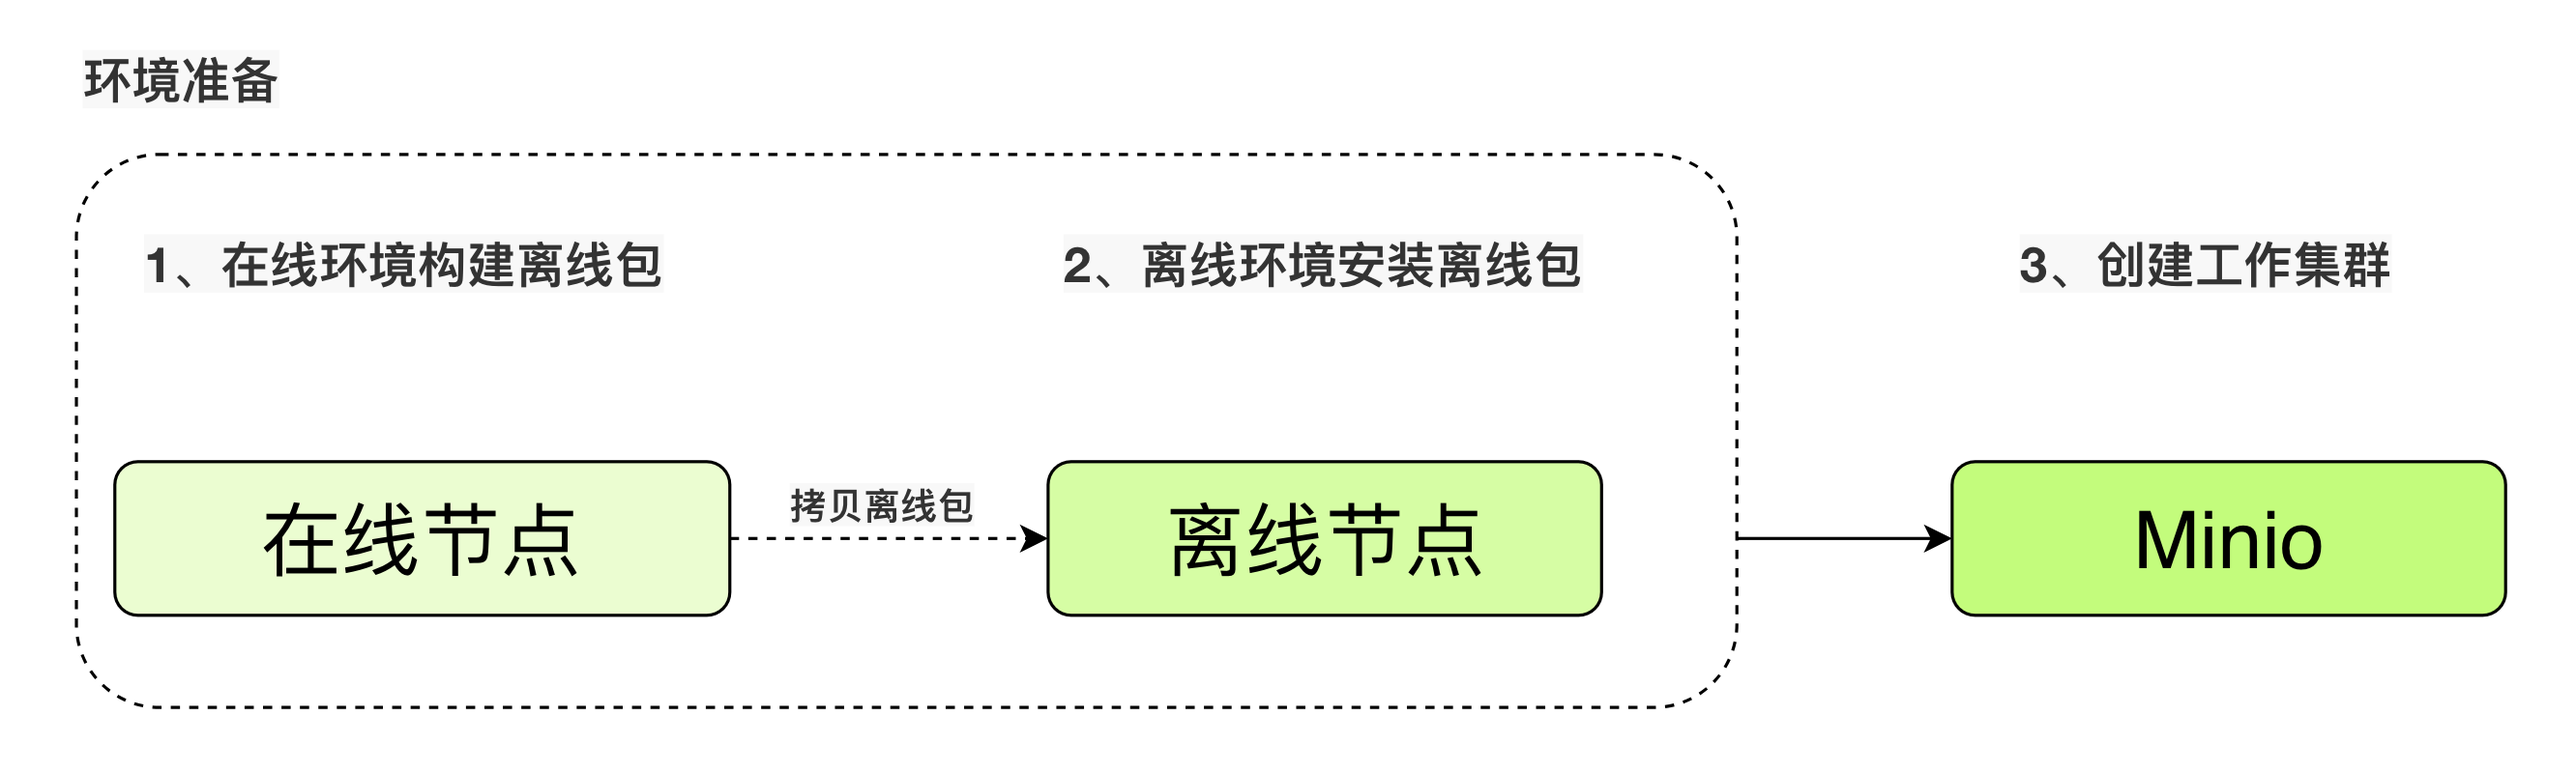
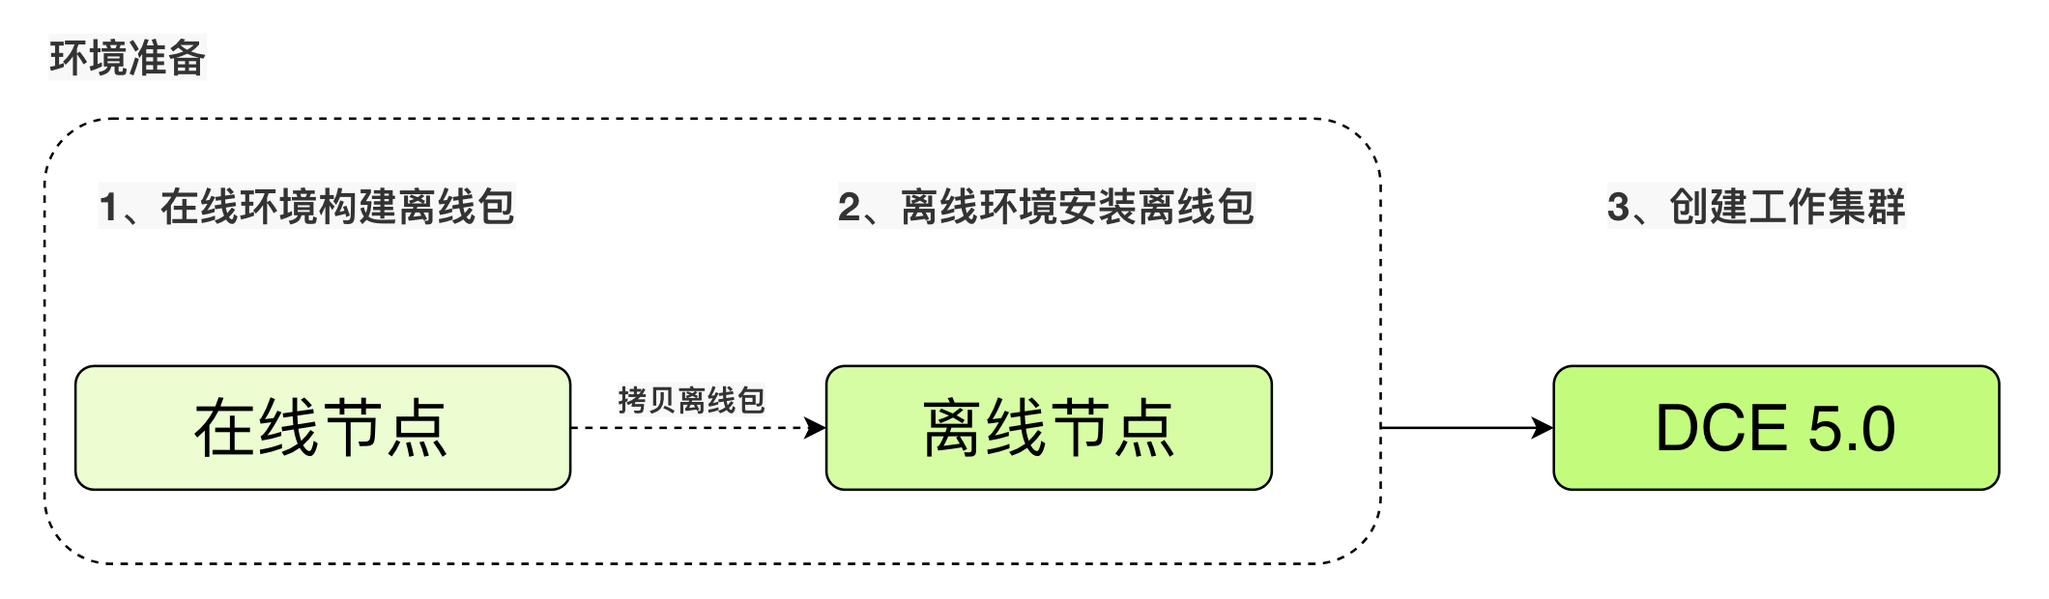
add

diff --git a/docs/zh/docs/kpanda/user-guide/clusters/runtime.md b/docs/zh/docs/kpanda/user-guide/clusters/runtime.md
@@ -1,4 +1,4 @@
-# 如何选择容器运行时
+# 如何选择操作系统和容器运行时
 
 容器运行时是 kubernetes 中对容器和容器镜像生命周期进行管理的重要组件。kubernetes 在 1.19 版本中将 Containerd 设为默认的容器运行时，并在 1.24 版本中移除了 Dockershim 组件的支持。
 
@@ -6,14 +6,21 @@
 
 除此之外，一些操作系统发行厂商对 Docker 运行时的兼容也不够友好，不同操作系统对运行时的支持如下表：
 
-## 不同操作系统和支持的运行时对应关系
+## DCE 5.0 支持的操作系统和支持的运行时的应关系
 
 | 操作系统        | 支持的 Continerd 运行时版本 | 支持的 Docker 运行时版本 |
 |-------------|---------------|------------|
 | CentOS      |  1.5.5、1.5.7、1.5.8、1.5.9、1.5.10、1.5.11、1.5.12、1.5.13、1.6.0、1.6.1、1.6.2、1.6.3、1.6.4、1.6.5、1.6.6、1.6.7、1.6.8、1.6.9、1.6.10、1.6.11、1.6.12、1.6.13、1.6.14、1.6.15（默认）       | 18.09、19.03、20.10（默认）     |
 | RedHatOS    |1.5.5、1.5.7、1.5.8、1.5.9、1.5.10、1.5.11、1.5.12、1.5.13、1.6.0、1.6.1、1.6.2、1.6.3、1.6.4、1.6.5、1.6.6、1.6.7、1.6.8、1.6.9、1.6.10、1.6.11、1.6.12、1.6.13、1.6.14、1.6.15（默认）    | 18.09、19.03、20.10（默认）      |
 | KylinOS     | 1.5.5、1.5.7、1.5.8、1.5.9、1.5.10、1.5.11、1.5.12、1.5.13、1.6.0、1.6.1、1.6.2、1.6.3、1.6.4、1.6.5、1.6.6、1.6.7、1.6.8、1.6.9、1.6.10、1.6.11、1.6.12、1.6.13、1.6.14、1.6.15 （默认） | 19.03（仅 ARM 架构支持 ，在 X86 架构下不支持使用 Docker 作为运行时）|
+| Oracle     | 1.5.5、1.5.7、1.5.8、1.5.9、1.5.10、1.5.11、1.5.12、1.5.13、1.6.0、1.6.1、1.6.2、1.6.3、1.6.4、1.6.5、1.6.6、1.6.7、1.6.8、1.6.9、1.6.10、1.6.11、1.6.12、1.6.13、1.6.14、1.6.15 （默认） | 不支持使用 Docker 作为运行时|
 
 !!! note
 
     在离线安装模式下，需要提前准备相关操作系统的运行时离线包。
+
+## 未声明支持（未经过严格测试）的操作系统
+
+
+
+

diff --git a/docs/zh/docs/kpanda/best-practice/use-otherlinux-create-custer.md b/docs/zh/docs/kpanda/best-practice/use-otherlinux-create-custer.md
@@ -1,6 +1,6 @@
 # 在非主流操作系统上创建集群
 
-本文介绍离线模式下如何在**未声明支持的 OS** 上创建工作集群。DCE 5.0 声明支持的 OS 范围请参考 [DCE 5.0 支持的操作系统](../user-guide/clusters/cluster-role.md)
+本文介绍离线模式下如何在**未声明支持的 OS** 上创建工作集群。DCE 5.0 声明支持的 OS 范围请参考 [DCE 5.0 支持的操作系统](../../install/commercial/deploy-requirements.md)
 
 离线模式下在未声明支持的 OS 上创建工作集群，主要的流程如下图：
 
@@ -28,12 +28,12 @@ $ ./other_os_pkgs.sh build #构建离线包
 
 执行完上述命令后，预期将在当前路径下生成一个名为 **`os-pkgs-anolis-8.8.tar.gz`** 的压缩包。当前路径下文件目录大概如下：
 
-!!! note
-
+```bash
     .
     ├── other_os_pkgs.sh
     ├── pkgs.yml
     └── os-pkgs-anolis-8.8.tar.gz
+```
 
 #### 2.离线节点——安装离线包
 
@@ -55,4 +55,4 @@ $ ./other_os_pkgs.sh install #安装离线包
 
 #### 3.前往界面创建集群
 
-参考文档[创建工作集群](../user-guide/clusters/create-cluster.md)，创建 ubuntu 集群。
+参考文档[创建工作集群](../user-guide/clusters/create-cluster.md)，创建 openAnolis 集群。
